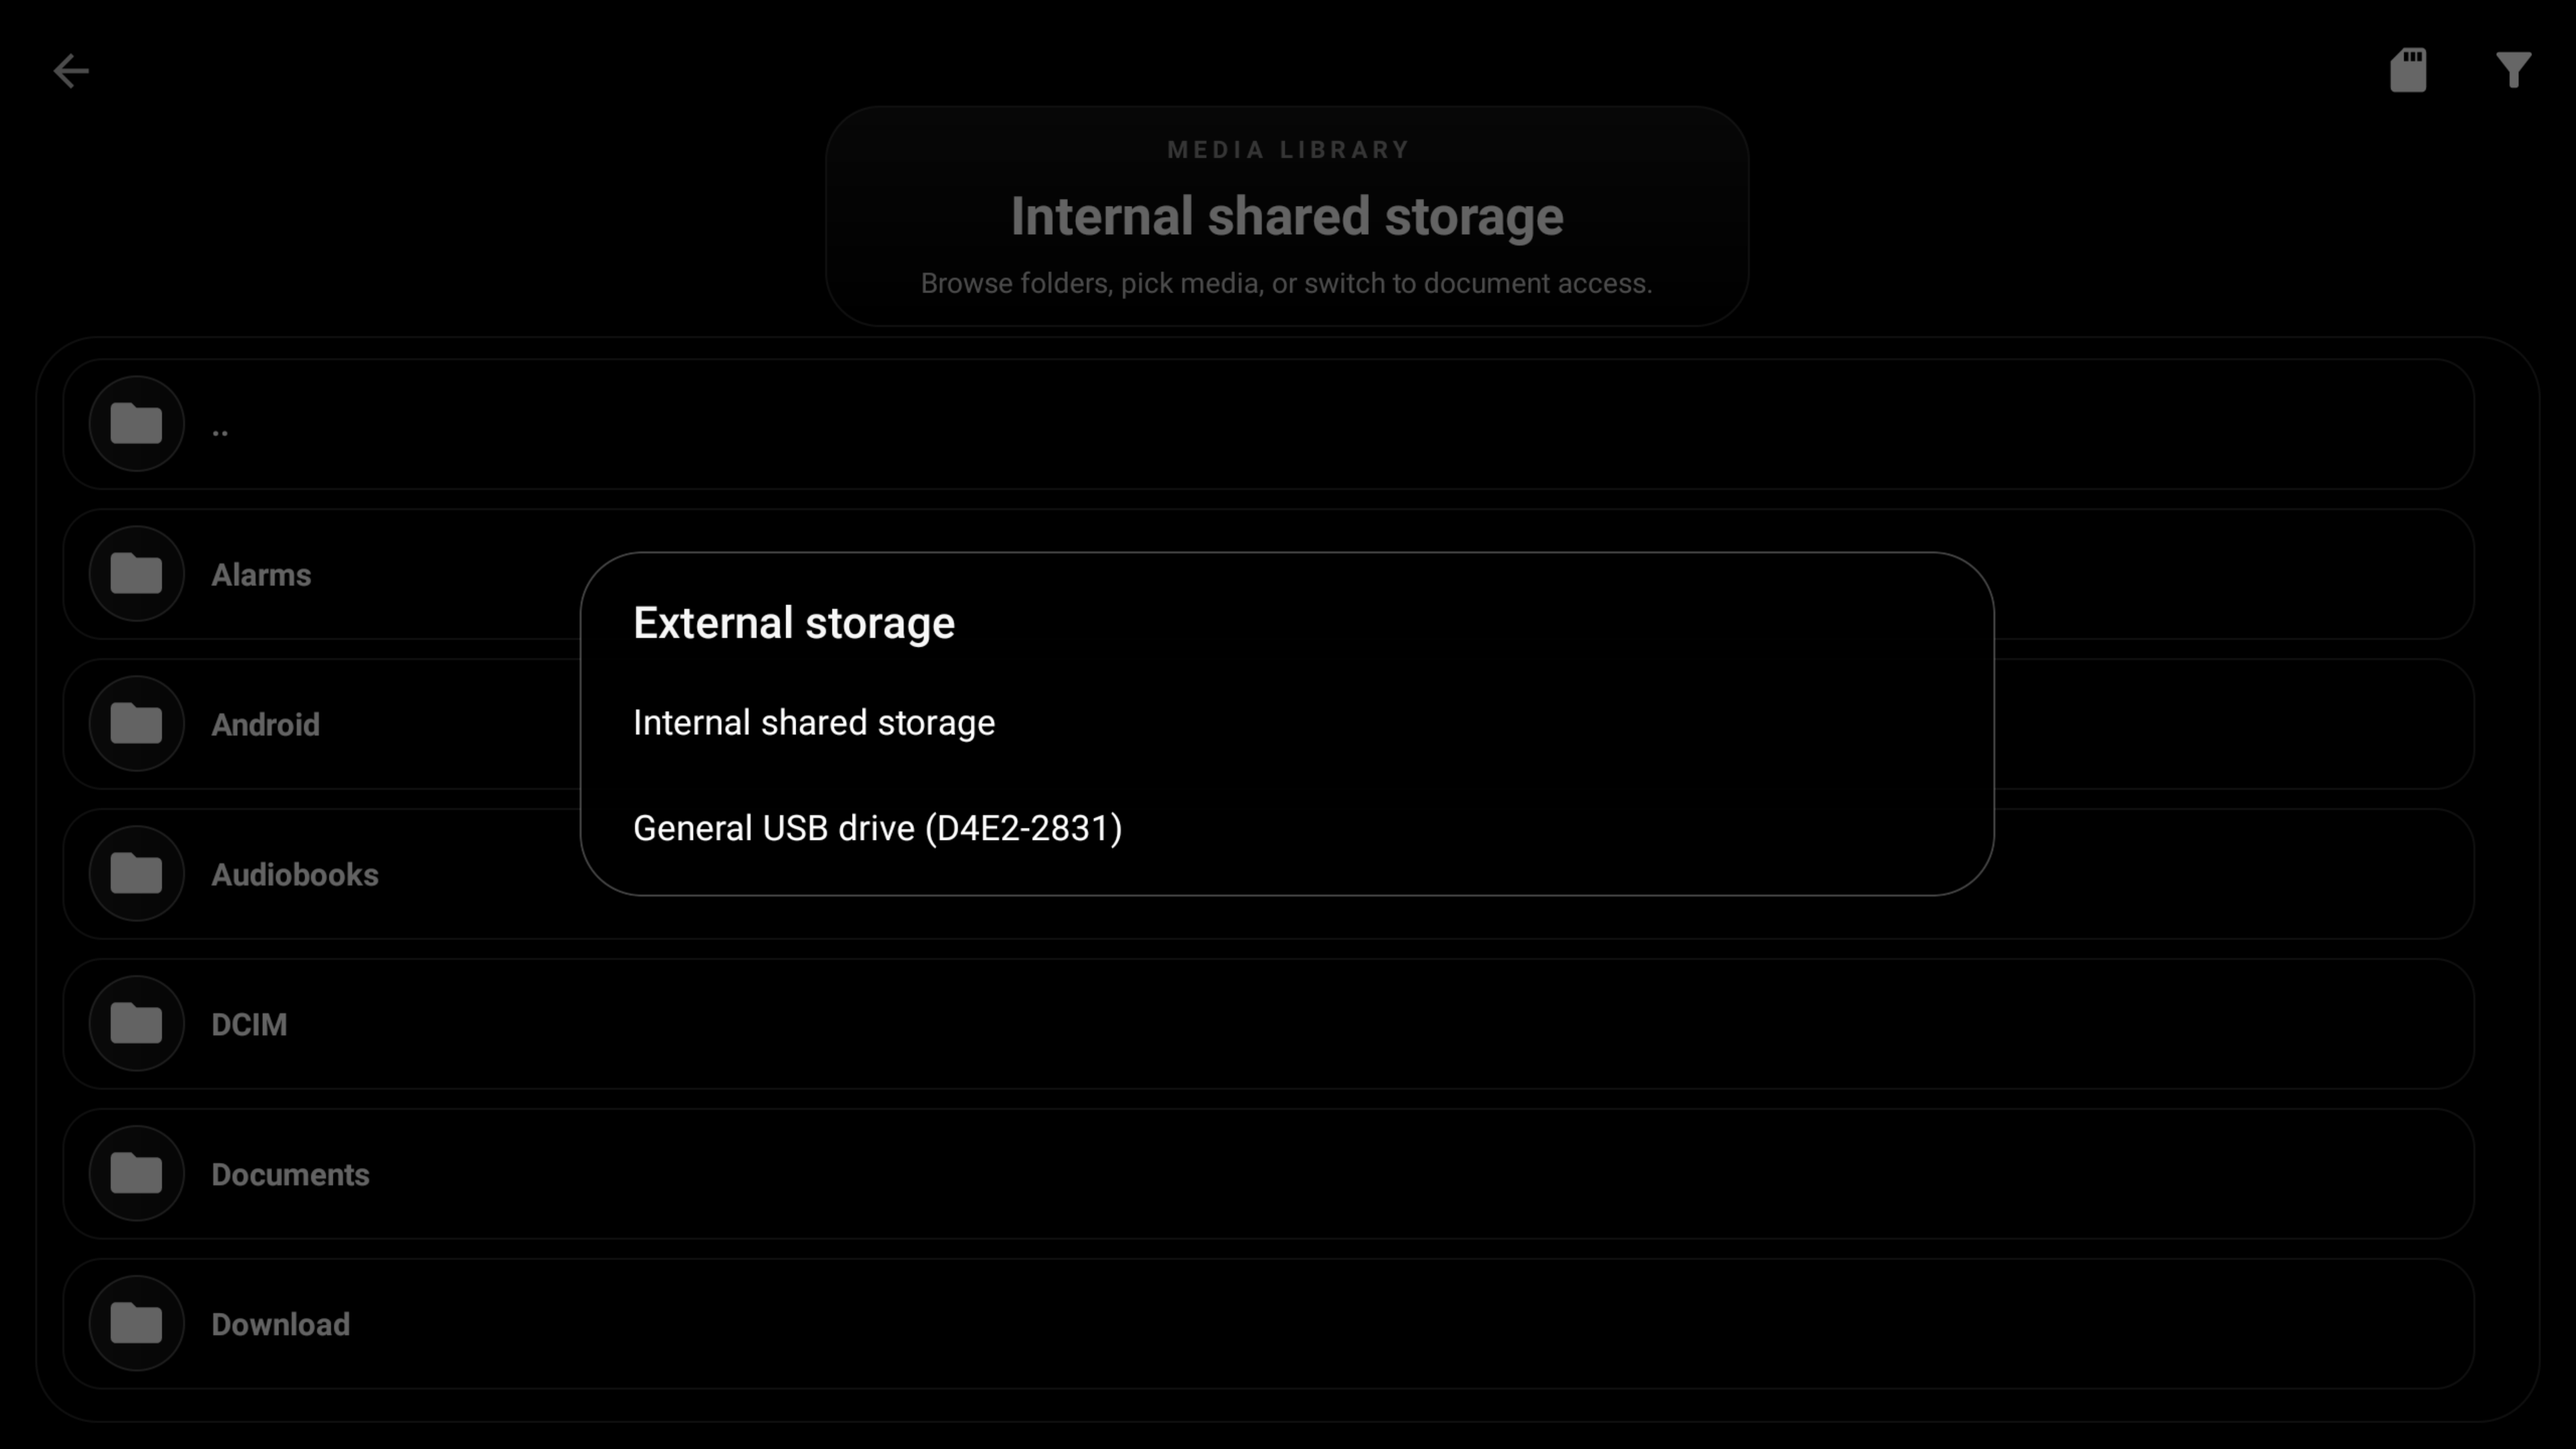
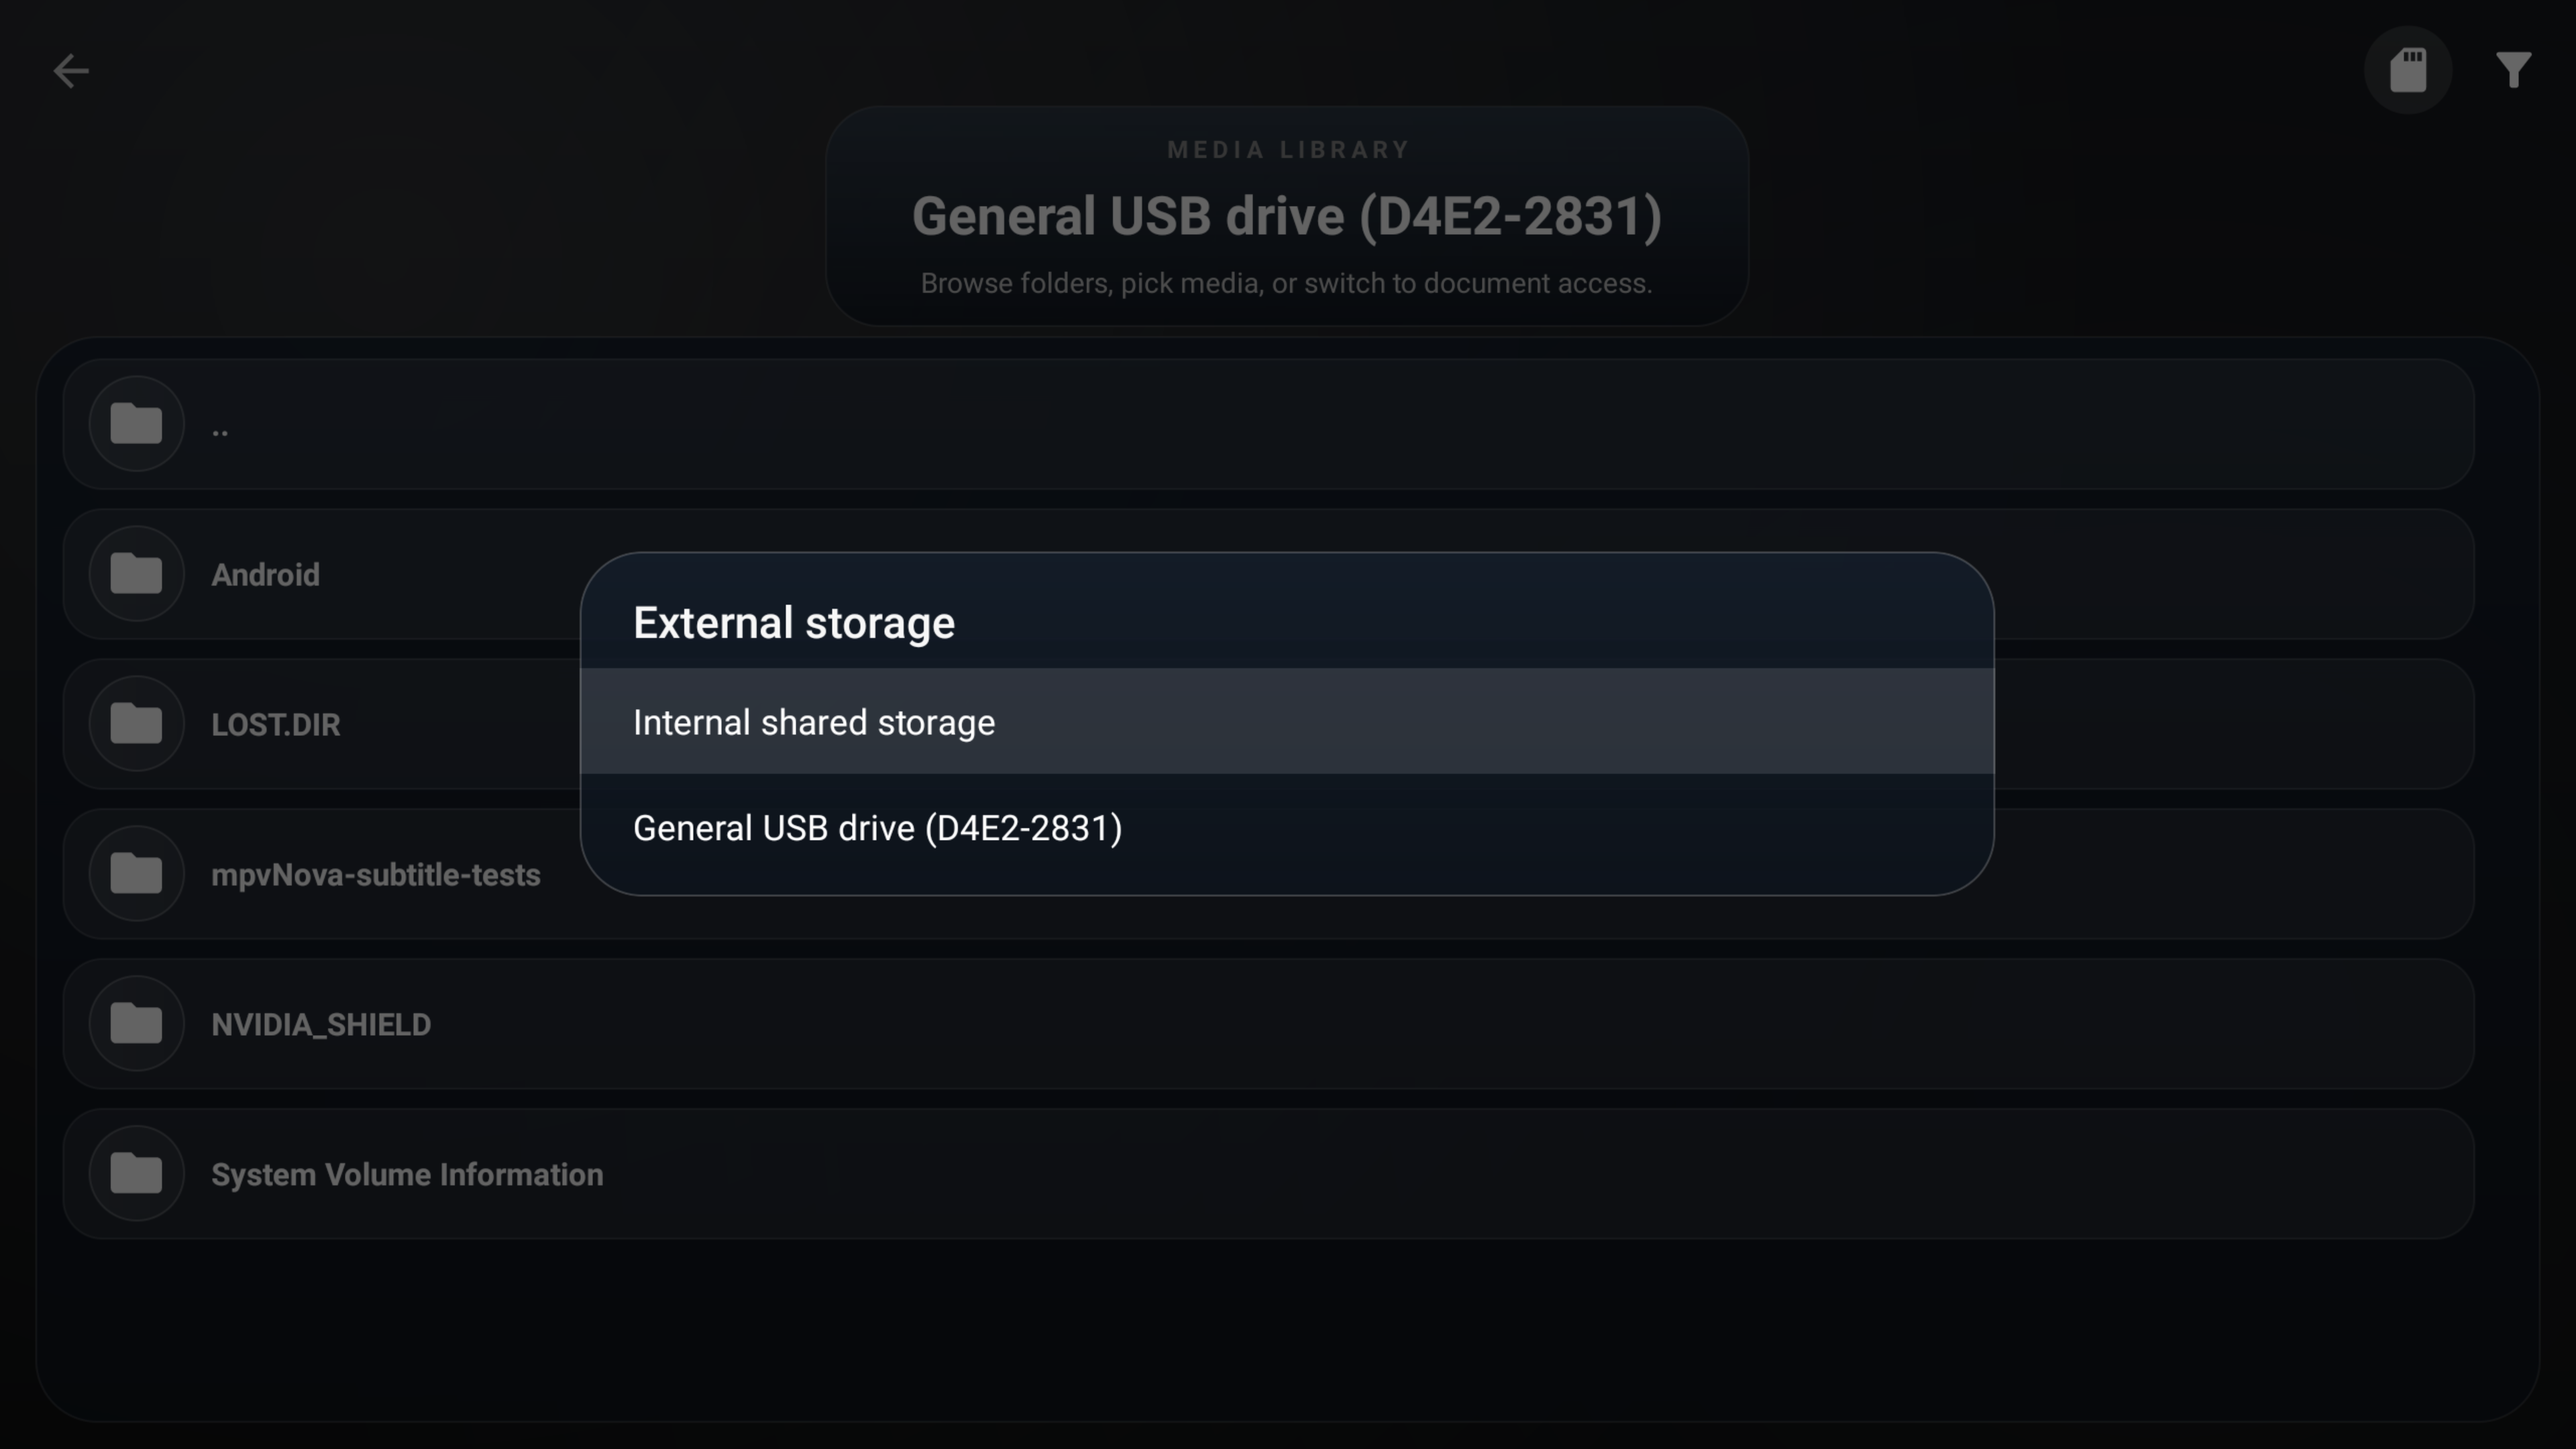
Refresh README screenshots

diff --git a/README.md b/README.md
@@ -19,7 +19,7 @@ The goal is simple: keep mpv powerful, but make it feel natural on a TV from the
 - Remote-friendly player HUD with strong D-pad focus behavior
 - Custom subtitle, audio, chapter, decoder, video-adjustment, advanced playback, and settings panels
 - Smart subtitle matching for binge-watching, tied to persisted subtitle settings
-- Multiple built-in color themes, AMOLED mode, and pure black surfaces
+- 16 built-in color themes, AMOLED mode, and pure black surfaces
 - Dialogue-focused audio tools for stereo and surround playback
 - Device-aware decoder paths including gpu-next and optional Shield Hi10P fallback handling
 - In-app update checks backed by GitHub releases
@@ -48,7 +48,7 @@ For mobile-focused Android mpv options, use projects such as [mpvEx](https://git
 </div>
 
 <div align="center">
-  <img src="docs/screenshots/media-library.png" alt="Media library" width="96%" />
+  <img src="docs/screenshots/media-library.png" alt="Media library with external storage picker" width="96%" />
 </div>
 
 <div align="center">
@@ -68,7 +68,7 @@ For mobile-focused Android mpv options, use projects such as [mpvEx](https://git
 </div>
 
 <div align="center">
-  <img src="docs/screenshots/player-decoder-mode.png" alt="Decoder picker with live gpu-next path highlight" width="96%" />
+  <img src="docs/screenshots/player-decoder-mode.png" alt="Decoder picker with selected decoder mode" width="96%" />
 </div>
 
 <div align="center">
@@ -118,7 +118,8 @@ mpvNova inherits mpv-android's playback foundation: hardware/software decoding, 
 - Player UI autopause options: a general "Pause when controls show" toggle, plus a Shield-specific "Pause Hi10P on Shield" toggle (on by default) that pauses playback while the controls overlay is visible so the SW decoder is not competing with the UI for CPU on Hi10P files
 - Player-side video adjustment panels for brightness, contrast, gamma, and saturation, with optional remembered values
 - Live `G-NEXT` path display for direct, copy, or software-backed playback paths, plus automatic decoder fallback for known trouble cases
-- Appearance themes for White, Crimson, Ocean, Violet, Emerald, Amber, and Rose, plus AMOLED mode and pure black surfaces
+- Appearance themes for White, Crimson, Ocean, Cyan, Violet, Emerald, Lime, Amber, Gold, Copper, Indigo, Rose, Slate, Chrome, Oyster, and Ivory, plus AMOLED mode and pure black surfaces
+- Settings pages update the hero title to the active section, including Appearance, General, Video, Player UI, Advanced, and Support
 - Home-screen update prompt, manual update checks, APK handoff to Android's installer, and release-note history from Settings
 - Resume-position handling, media-title cleanup for launcher/stream sources, readable stats overlays, and support/debug export tools
 
